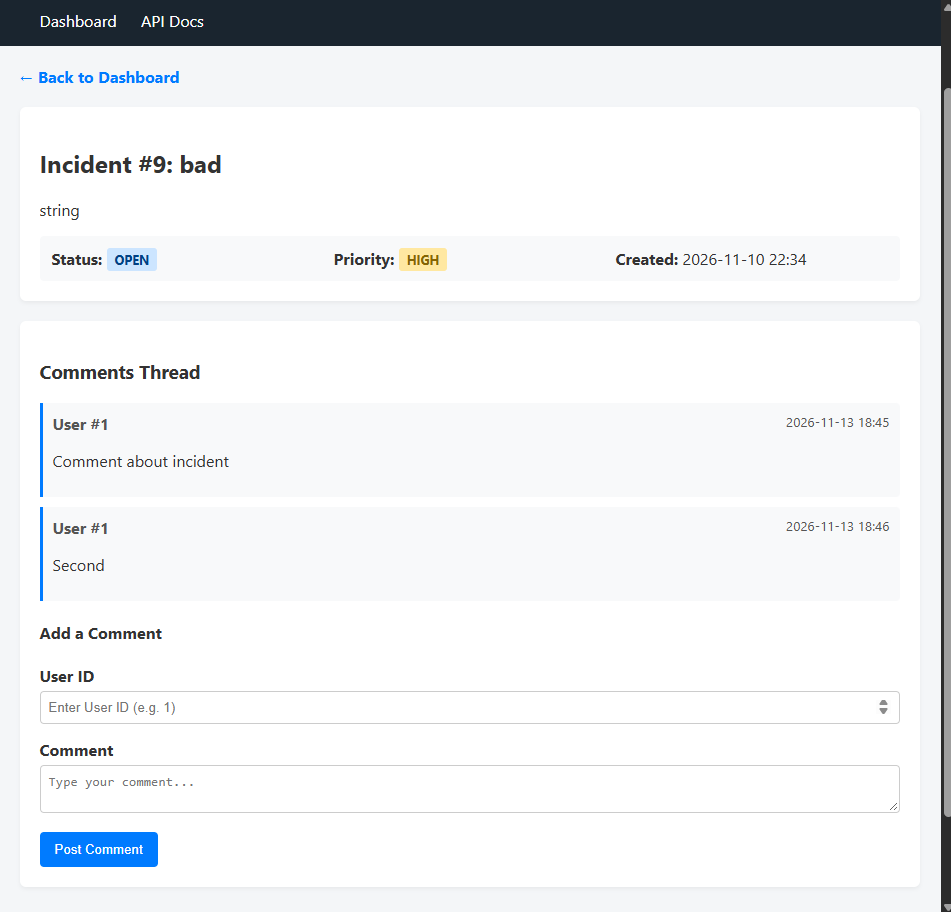
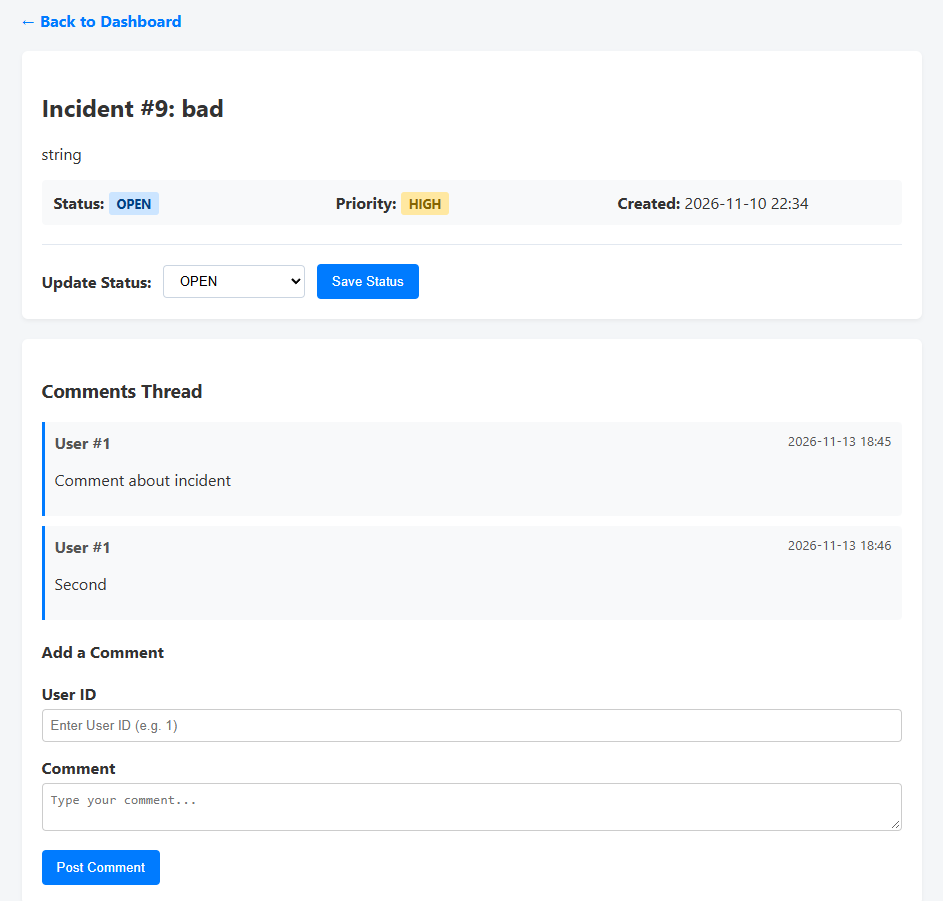
feat(web-ui): add incident status update form via REST API

diff --git a/src/web/static/js/main.js b/src/web/static/js/main.js
@@ -46,4 +46,32 @@ document.addEventListener('DOMContentLoaded', () => {
             }
         });
     }
+
+    const updateStatusForm = document.getElementById('update-status-form');
+    if (updateStatusForm) {
+        updateStatusForm.addEventListener('submit', async (e) => {
+            e.preventDefault();
+            const incidentId = updateStatusForm.getAttribute('data-incident-id');
+            const newStatus = document.getElementById('status-select').value;
+
+            try {
+                const response = await fetch(`/api/incidents/${incidentId}`, {
+                    method: 'PUT',
+                    headers: {
+                        'Content-Type': 'application/json'
+                    },
+                    body: JSON.stringify({ status: newStatus })
+                });
+
+                if (response.ok) {
+                    window.location.reload();
+                } else {
+                    alert('Failed to update incident status.');
+                }
+            } catch (error) {
+                console.error('Error updating status:', error);
+                alert('Network error while updating status.');
+            }
+        });
+    }
 });

diff --git a/src/web/templates/detail.html b/src/web/templates/detail.html
@@ -16,6 +16,20 @@
                 }}</span></div>
         <div><strong>Created:</strong> {{ incident.created_at.strftime('%Y-%m-%d %H:%M') }}</div>
     </div>
+
+    <hr style="margin: 1.2rem 0; border: 0; border-top: 1px solid #e2e8f0;">
+    <form id="update-status-form" data-incident-id="{{ incident.id }}"
+        style="display: flex; gap: 0.75rem; align-items: center;">
+        <label for="status-select"><strong>Update Status:</strong></label>
+        <select id="status-select" name="status"
+            style="padding: 0.45rem 0.7rem; border-radius: 4px; border: 1px solid #cbd5e1;">
+            <option value="OPEN" {% if incident.status=='OPEN' %}selected{% endif %}>OPEN</option>
+            <option value="IN_PROGRESS" {% if incident.status=='IN_PROGRESS' %}selected{% endif %}>IN_PROGRESS</option>
+            <option value="RESOLVED" {% if incident.status=='RESOLVED' %}selected{% endif %}>RESOLVED</option>
+            <option value="CLOSED" {% if incident.status=='CLOSED' %}selected{% endif %}>CLOSED</option>
+        </select>
+        <button type="submit" class="btn">Save Status</button>
+    </form>
 </section>
 
 <section class="card">

diff --git a/docs/technical-report.md b/docs/technical-report.md
@@ -105,6 +105,7 @@ Implemented full CRUD operational endpoints:
 - **Dashboard (`/`):** Displays a chronological table of all incidents with status/priority badges and a form to submit new incidents.
 - **Incident Details (`/incidents/<id>`):** Displays full incident metadata, comment threads, and a comment submission form.
 - **Client-Side Logic (`main.js`):** Intercepted form submissions using the JavaScript `fetch` API to send asynchronous `POST` JSON payloads directly to `/api/incidents` and `/api/incidents/<id>/comments`.
+- Implemented an incident status update workflow on the detail view (`detail.html`), allowing operators to transition incidents across `OPEN`, `IN_PROGRESS`, `RESOLVED`, and `CLOSED` states via asynchronous `PUT /api/incidents/<id>` requests.
 
 ### 6.3 Verification Evidence
 - Verified responsive CSS Grid/Flexbox layouts, static asset delivery, and end-to-end incident/comment creation via browser testing.
@@ -230,9 +231,9 @@ To validate the reliability, integration, and security of the deployed platform,
 - Confirmed connection timeouts (`Connection timed out`), verifying that `UFW` firewall rules and loopback interface bindings (`127.0.0.1`) prevent unauthorized external access.
 
 ### 12.5 Verification Evidence
-![Functional Testing - REST API CRUD Lifecycle](images/12-phase11-functional-crud.png.png)
+![Functional Testing - REST API CRUD Lifecycle](images/12-phase11-functional-crud.png)
 ![Integration Testing - Web UI Incident Creation](images/13-phase11-integration-web-create.png)
-![Integration Testing - Web UI Incident Details & Comment](images/14-phase11-integration-web-comment.png)
+![Integration Testing - Web UI Incident Details, Status & Comment](images/14-phase11-integration-web-status-comment.png)
 ![Integration Testing - PostgreSQL Persistence Verification](images/15-phase11-integration-db.png)
 ![Security Testing - External Port Isolation from Remote Host](images/16-phase11-security-ports.png)
 ![Recovery Testing - Automatic Service Startup After VM Reboot](images/17-phase11-recovery-reboot.png)
